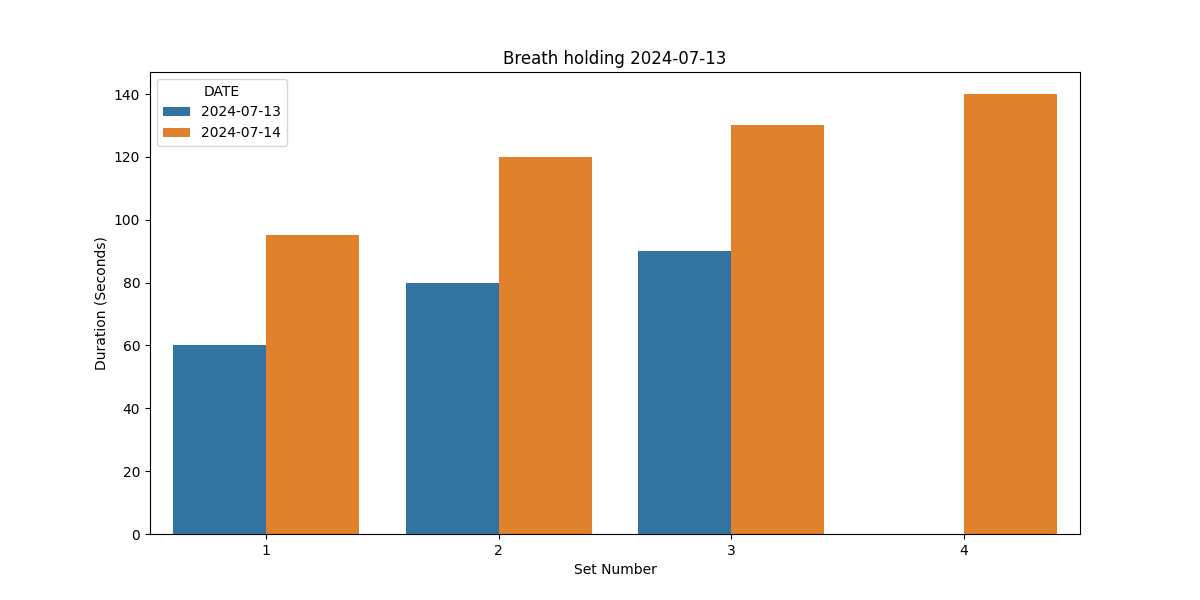
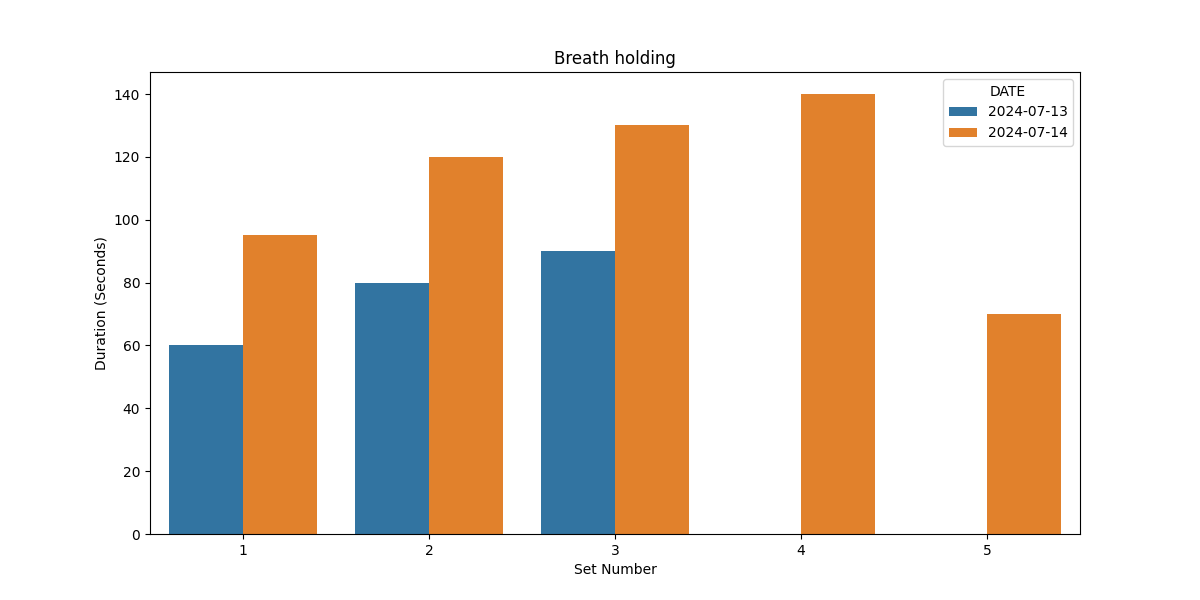
chore: add breath hold

diff --git a/src/helpers/get_breath_holding.py b/src/helpers/get_breath_holding.py
@@ -50,7 +50,7 @@ def main():
     # Add labels and title
     plt.xlabel('Set Number')
     plt.ylabel('Duration (Seconds)')
-    plt.title('Breath holding 2024-07-13')
+    plt.title('Breath holding')
 
     # Show plot
     # plt.show()
